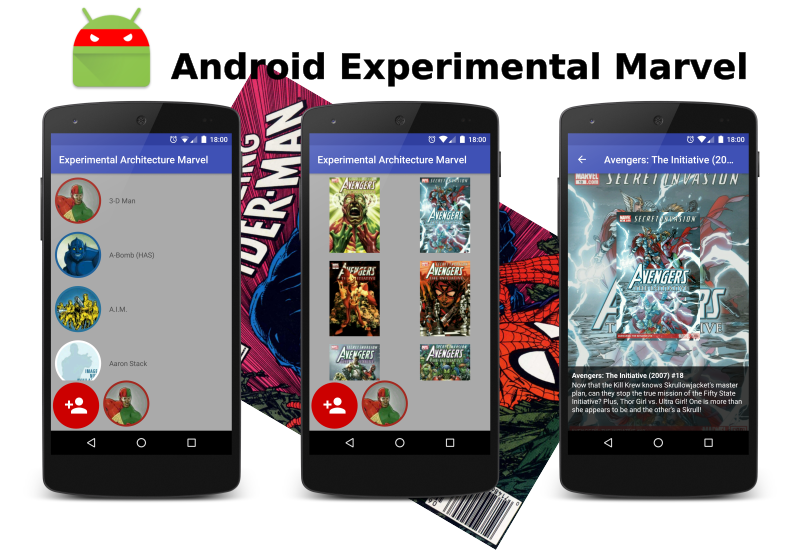
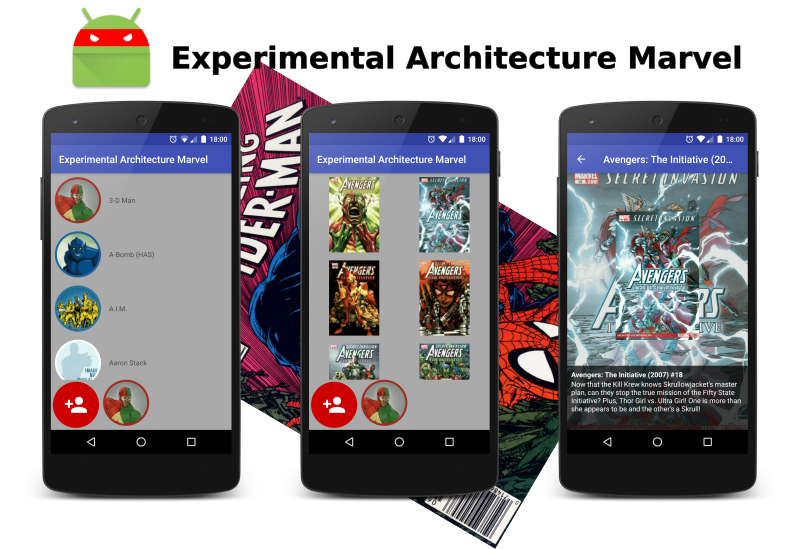
Updated readme image

diff --git a/README.md b/README.md
@@ -1,6 +1,4 @@
-# Experimental Architecture Marvel #
-
-![](https://bytebucket.org/narfss/arduino-bluetooth-y-android/raw/83274506ceaea69a216e1b9e071e18e2552d3eb7/arduiblueandr.png?token=4f67415d32a567a569ec479758abecdae5a16b9d)
+![](https://github.com/Narfss/ExperimentalArchitectureMarvel/raw/master/AEM_header.png)
 
 This repository is an example of architecture and use of some techniques related with android development.
 
@@ -22,6 +20,8 @@ Last view is the comic details showing title, description and images.
 Any feedback is welcome.
 
 Thanks.
+
+# Experimental Architecture Marvel #
 
 ## License
 
